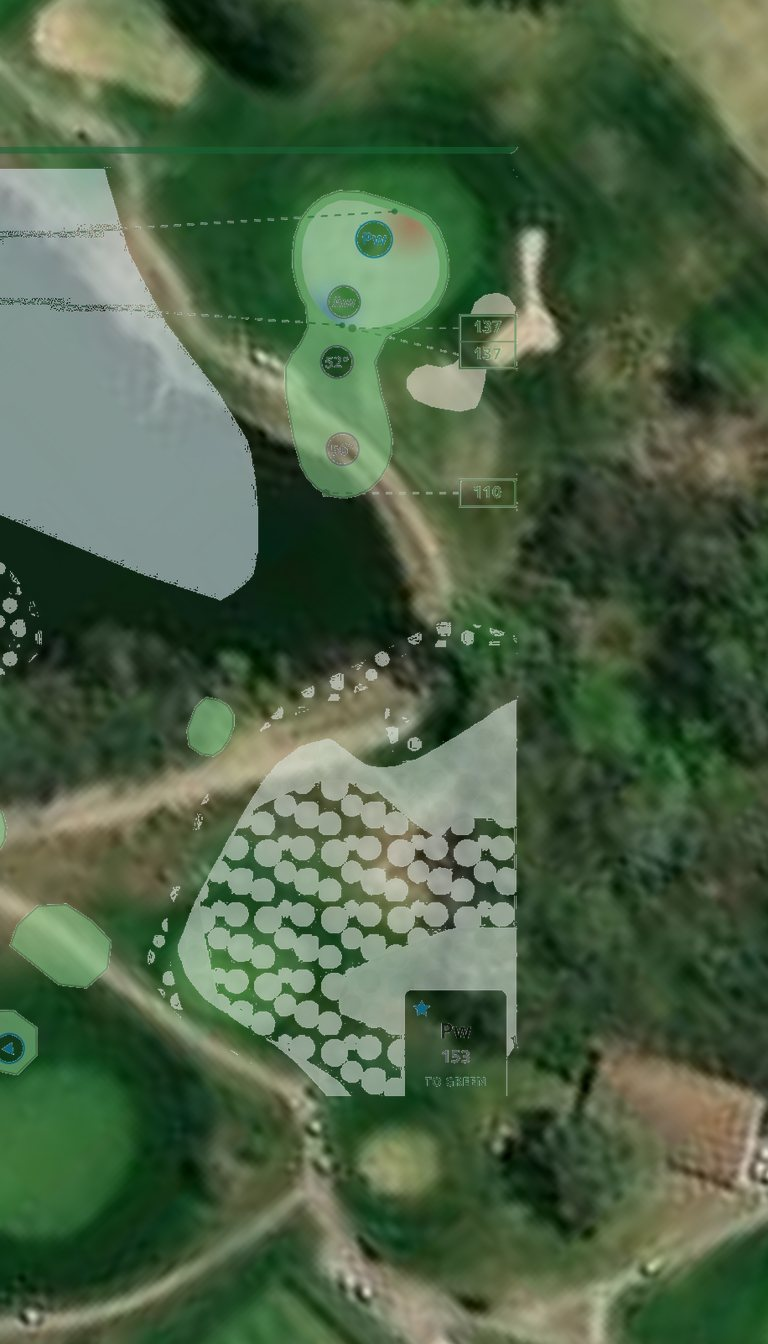
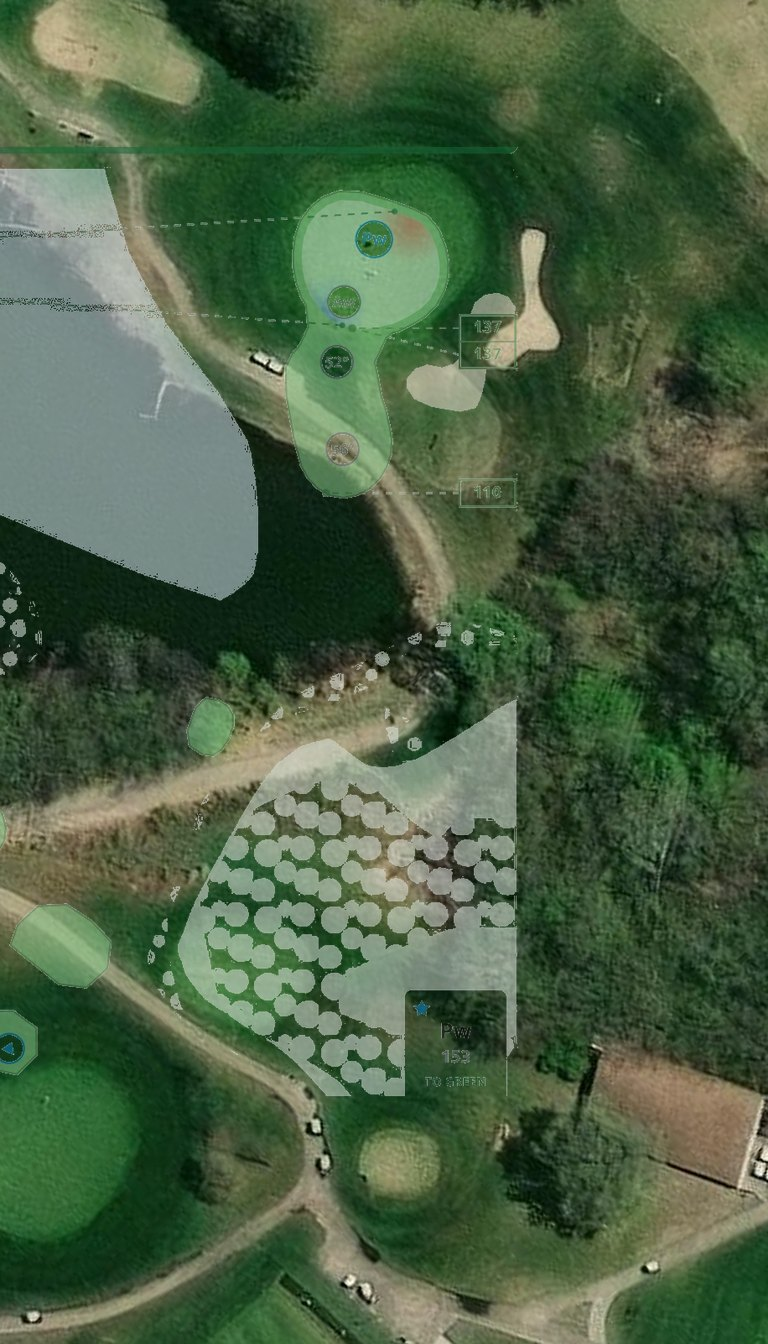
lake shawnee: per-hole zoom-19 imagery; no black edges; link b8

diff --git a/course/lake-shawnee/index.html b/course/lake-shawnee/index.html
@@ -1248,7 +1248,10 @@ function bookBlock(){
   const n = String(hole).padStart(2,"0");
   /* Hole page: the PTC book over the GPS satellite, rendered as a clean portrait
      page - play-direction up, imagery filling the frame, the book's chrome masked,
-     both layers sharing one orientation so nothing sits sideways. Tee and green are
+     both layers sharing one orientation so nothing sits sideways. The imagery is
+     fetched per hole at zoom 19 - the provider's native ceiling, 0.23 m/px - framed
+     to that hole's own page corners, rather than sampled from one zoom-17 mosaic of
+     the whole course, which is what made the first version look soft. Tee and green are
      pinned per hole to BlueGolf's surveyed coordinates. All 18 re-reviewed on this
      renderer, including 15, whose earlier failure was the midpoint solve and not
      the anchors. */

diff --git a/index.html b/index.html
@@ -940,7 +940,7 @@ body{background:var(--navy-deep);font-family:var(--font-body);color:var(--cream)
     {name:'Paradise Pointe · Posse',loc:'Smithville, MO',par:72,slug:'paradise-pointe-posse'},
     {name:'Paradise Pointe · Outlaw',loc:'Smithville, MO',par:72,slug:'paradise-pointe-outlaw'},
     {name:'Charleston National Golf Club',loc:'Mount Pleasant, SC',par:72,slug:'charleston-national'},
-    {name:'Lake Shawnee Golf Course',loc:'Topeka, KS',par:70,slug:'lake-shawnee',v:'b7'}
+    {name:'Lake Shawnee Golf Course',loc:'Topeka, KS',par:70,slug:'lake-shawnee',v:'b8'}
   ];
 
   function el(html){var t=document.createElement('template');t.innerHTML=html.trim();return t.content.firstChild;}
